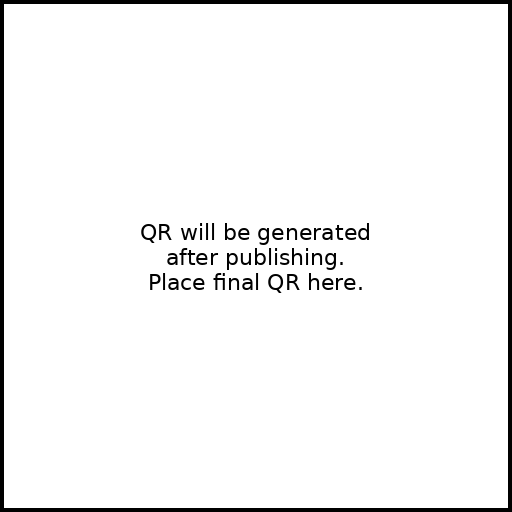
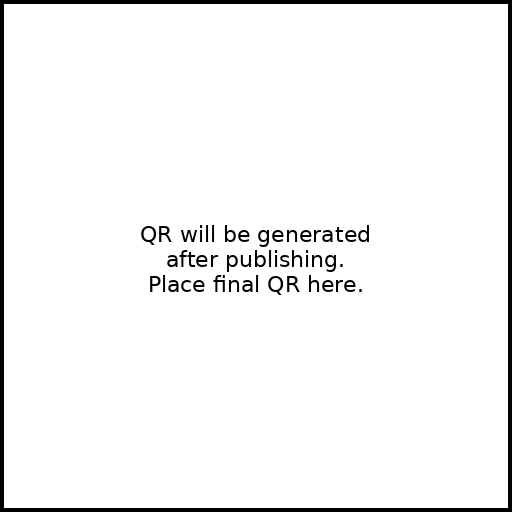
Add files via upload

Changed region(s): [[0.25, 0.4375, 0.7188, 0.5938]]

diff --git a/upload.html b/upload.html
@@ -1,0 +1,88 @@
+<!doctype html>
+<html lang="en">
+<head>
+  <meta charset="utf-8">
+  <meta name="viewport" content="width=device-width, initial-scale=1">
+  <title>Upload a Selfie</title>
+  <link rel="stylesheet" href="style.css">
+  <meta name="description" content="Upload your selfie or group photo anonymously for the housewarming wishes board.">
+</head>
+<body>
+  <header class="hero small">
+    <div class="overlay"></div>
+    <div class="hero-content">
+      <h1>Upload a Selfie</h1>
+      <p class="sub">No login required. Images only.</p>
+      <a class="cta" href="index.html">← Back to Home</a>
+    </div>
+  </header>
+
+  <main class="content">
+    <section class="upload-section">
+      <h2>Share your photo 📸</h2>
+      <p>Tap the area below to pick an image from your phone or take a new one.</p>
+
+      <div class="uploader">
+        <!-- Uploadcare global key comes from config.js -->
+        <input type="hidden" role="uploadcare-uploader" data-images-only="true" data-multiple="false" data-clearable="true" data-tabs="file camera" id="uploader" />
+      </div>
+
+      <div id="result" class="result" style="display:none;">
+        <h3>Uploaded! ✅</h3>
+        <img id="preview" alt="preview"/>
+        <p><a id="fileLink" target="_blank" rel="noopener">Open image</a></p>
+        <button id="copyBtn" class="cta">Copy image link</button>
+        <span id="copyOk"></span>
+      </div>
+
+      <p class="note">Tip: After uploading, you can paste the link into your wishes form too.</p>
+    </section>
+  </main>
+
+  <footer>
+    <small>© <span id="year"></span> Wishes Board</small>
+  </footer>
+
+  <script src="config.js"></script>
+  <script>
+    // Set Uploadcare public key before loading the widget script
+    (function(){
+      const cfg = window.WISHES_CONFIG || {};
+      window.UPLOADCARE_PUBLIC_KEY = cfg.uploadcarePublicKey || 'demopublickey';
+    })();
+  </script>
+  <script src="https://ucarecdn.com/libs/widget/3.x/uploadcare.full.min.js"></script>
+  <script>
+    (function(){
+      const year = document.getElementById('year');
+      year.textContent = new Date().getFullYear();
+
+      const widget = uploadcare.Widget('#uploader');
+      const resultBox = document.getElementById('result');
+      const fileLink = document.getElementById('fileLink');
+      const preview = document.getElementById('preview');
+      const copyBtn = document.getElementById('copyBtn');
+      const copyOk = document.getElementById('copyOk');
+
+      widget.onUploadComplete(function(info){
+        const url = info.cdnUrl;
+        fileLink.href = url;
+        fileLink.textContent = url;
+        preview.src = url + '-/preview/300x300/';
+        resultBox.style.display = 'block';
+      });
+
+      copyBtn.addEventListener('click', async function(){
+        try {
+          await navigator.clipboard.writeText(fileLink.href);
+          copyOk.textContent = 'Copied!';
+          setTimeout(()=>copyOk.textContent='', 1500);
+        } catch(e) {
+          copyOk.textContent = 'Unable to copy';
+          setTimeout(()=>copyOk.textContent='', 1500);
+        }
+      });
+    })();
+  </script>
+</body>
+</html>

diff --git a/index.html b/index.html
@@ -14,7 +14,10 @@
       <h1 id="eventName">Wishes Board</h1>
       <p id="eventDate" class="sub"></p>
       <p class="tag">We'd love to hear from you! Tap the button below to leave your wish ✨</p>
-      <a id="wishButton" class="cta" href="#" target="_blank" rel="noopener">Leave a Wish</a>
+      <div class="cta-row">
+        <a id="wishButton" class="cta" href="#" target="_blank" rel="noopener">Leave a Wish</a>
+        <a class="cta outline" href="upload.html">Upload a Selfie</a>
+      </div>
       <div class="qr">
         <img src="qr-placeholder.png" alt="Scan to open the wishes link"/>
         <p class="qr-caption">Scan to open the wishes link</p>
@@ -24,13 +27,20 @@
 
   <main class="content">
     <section>
+      <h2>Emoji Reactions</h2>
+      <p>Tap an emoji to send some love! (local only)</p>
+      <div class="emoji-wall" id="emojiWall"></div>
+    </section>
+
+    <section>
       <h2>How it works</h2>
       <ol>
-        <li>Scan the QR code or tap <strong>Leave a Wish</strong>.</li>
-        <li>Write your message and submit.</li>
-        <li>That's it! Your wishes will be shared with the hosts.</li>
+        <li>Tap <strong>Leave a Wish</strong> to write your message (no login).</li>
+        <li>Tap <strong>Upload a Selfie</strong> to share a photo (no login).</li>
+        <li>Spread the link or QR to friends & family.</li>
       </ol>
     </section>
+
     <section class="share">
       <h3>Share this page</h3>
       <button id="copyLinkBtn">Copy page link</button>
@@ -55,6 +65,38 @@
       if (cfg.wishFormUrl) { wishBtn.href = cfg.wishFormUrl; }
       year.textContent = new Date().getFullYear();
 
+      // Emoji wall
+      const emojis = ['😍','🙌','🏡','💐','🎉','🙏','🤩','🥳'];
+      const wall = document.getElementById('emojiWall');
+      const counts = JSON.parse(localStorage.getItem('emojiCounts')||'{}');
+      function render() {
+        wall.innerHTML = '';
+        emojis.forEach(e => {
+          const btn = document.createElement('button');
+          btn.className = 'emoji-btn';
+          const count = counts[e]||0;
+          btn.innerHTML = `<span class="emo">${e}</span><span class="cnt">${count}</span>`;
+          btn.addEventListener('click', () => {
+            counts[e] = (counts[e]||0)+1;
+            localStorage.setItem('emojiCounts', JSON.stringify(counts));
+            render();
+            // Burst animation
+            const burst = document.createElement('div');
+            burst.className = 'burst';
+            burst.textContent = e;
+            document.body.appendChild(burst);
+            const rX = Math.random()*window.innerWidth;
+            const rY = Math.random()*window.innerHeight;
+            burst.style.left = rX+'px';
+            burst.style.top = rY+'px';
+            setTimeout(()=>burst.remove(), 800);
+          });
+          wall.appendChild(btn);
+        });
+      }
+      render();
+
+      // Copy link button
       const copyBtn = document.getElementById('copyLinkBtn');
       const copyStatus = document.getElementById('copyStatus');
       copyBtn.addEventListener('click', async () => {

diff --git a/style.css b/style.css
@@ -2,14 +2,20 @@
 * { box-sizing: border-box; }
 body { margin: 0; font-family: system-ui, -apple-system, Segoe UI, Roboto, Arial, sans-serif; color: #1f2d3d; background: #faf8f5; }
 
-.hero { position: relative; background: linear-gradient(135deg, #7c4dff, #ff8a65); color: #fff; min-height: 70vh; display: grid; place-items: center; text-align: center; }
+a { color: inherit; }
+
+.hero { position: relative; background: linear-gradient(135deg, #7c4dff, #ff8a65); color: #fff; min-height: 64vh; display: grid; place-items: center; text-align: center; }
+.hero.small { min-height: 40vh; }
 .hero .overlay { position: absolute; inset: 0; background-image: radial-gradient(rgba(255,255,255,.15) 1px, transparent 1px); background-size: 20px 20px; }
 .hero-content { position: relative; padding: 48px 20px; max-width: 900px; }
 .hero h1 { font-size: clamp(2rem, 5vw, 3.2rem); margin: 0 0 8px; letter-spacing: 0.5px; line-height: 1.2; }
 .hero .sub { margin: 0 0 16px; opacity: .9; }
 .hero .tag { font-size: clamp(1rem, 1.5vw, 1.125rem); margin-bottom: 24px; }
+
+.cta-row { display:flex; gap:12px; justify-content:center; flex-wrap:wrap; }
 .cta { display: inline-block; background: #fff; color: #7c4dff; padding: 14px 22px; border-radius: 10px; text-decoration: none; font-weight: 700; box-shadow: 0 8px 24px rgba(0,0,0,.2); transition: transform .15s ease, box-shadow .15s ease; }
-.cta:hover { transform: translateY{-2px}; box-shadow: 0 12px 30px rgba(0,0,0,.25); }
+.cta:hover { transform: translateY(-2px); box-shadow: 0 12px 30px rgba(0,0,0,.25); }
+.cta.outline { background: transparent; color:#fff; border:2px solid #fff; }
 
 .qr { margin-top: 28px; }
 .qr img { width: 180px; height: 180px; border-radius: 12px; background: #fff; padding: 10px; box-shadow: 0 8px 24px rgba(0,0,0,.25); }
@@ -22,3 +28,18 @@ body { margin: 0; font-family: system-ui, -apple-system, Segoe UI, Roboto, Arial
 .share span { margin-left: 10px; color: #2e7d32; }
 
 footer { text-align: center; padding: 24px; color: #6b7280; }
+
+/* Emoji wall */
+.emoji-wall { display:flex; flex-wrap:wrap; gap:12px; justify-content:center; }
+.emoji-btn { background:#f3e8ff; border:none; border-radius:14px; padding:10px 14px; cursor:pointer; box-shadow: 0 4px 12px rgba(0,0,0,.1); display:flex; align-items:center; gap:8px; }
+.emoji-btn .emo { font-size: 1.4rem; }
+.emoji-btn .cnt { background:#fff; color:#6b21a8; border-radius:8px; padding:2px 8px; font-weight:700; }
+.burst { position: fixed; font-size: 2rem; pointer-events: none; animation: pop .8s ease-out forwards; }
+@keyframes pop { 0%{ transform: scale(0.5); opacity:0;} 50%{ transform: scale(1.2); opacity:1;} 100%{ transform: scale(1); opacity:0;} }
+
+/* Upload page */
+.upload-section { text-align:center; }
+.uploader { margin: 20px auto; max-width: 480px; padding: 16px; border:2px dashed #c4b5fd; border-radius: 12px; background:#faf5ff; }
+.result { text-align:center; }
+.result img { display:block; margin:16px auto; border-radius: 12px; box-shadow: 0 6px 18px rgba(0,0,0,.12); }
+.note { color:#6b7280; }

diff --git a/config.js b/config.js
@@ -1,5 +1,6 @@
 window.WISHES_CONFIG = {
   "eventName": "MohanBabu & Priya <br> Gangadharan & Vaishnavi",
-  "eventDate": "With love and blessings — 22/02/2026",
-  "wishFormUrl": "https://forms.office.com/r/yourFormId"
+  "eventDate": "With love and blessings — 2026",
+  "wishFormUrl": "https://forms.office.com/r/yourFormId",
+  "uploadcarePublicKey": "demopublickey"
 };

diff --git a/README.md b/README.md
@@ -1,11 +1,18 @@
-# Wishes Board – Static Site (Updated Names)
+# Wishes Board – With Anonymous Uploads + Emoji Reactions
 
-This folder is ready to publish.
+This package adds:
+- `upload.html`: Anonymous image upload using Uploadcare (no login for guests)
+- Emoji Reactions block on the homepage (local-only counters)
 
-## Already set for you
-- **eventName** shows two lines: `MohanBabu & Priya` and `Gangadharan & Vaishnavi`.
-- **eventDate**: With love and blessings — 2026
-- **wishFormUrl**: Replace with your live Microsoft Forms link when ready.
+## Configure
+Open `config.js` and set:
+- `eventName`, `eventDate` — already customized.
+- `wishFormUrl` — paste your Microsoft/Google Form link (text-only; no file upload needed).
+- `uploadcarePublicKey` — replace `demopublickey` with your own key from Uploadcare dashboard.
 
-## After you publish on GitHub Pages
-- Send me your live URL and I will generate a real QR code and a printable poster.
+## How anonymous uploads work
+We use the Uploadcare widget. Guests upload an image and get a shareable link. You can view/manage files in your Uploadcare dashboard.
+
+## Publish
+Upload these files to your GitHub repo root and ensure GitHub Pages is enabled (main branch, / root).
+
